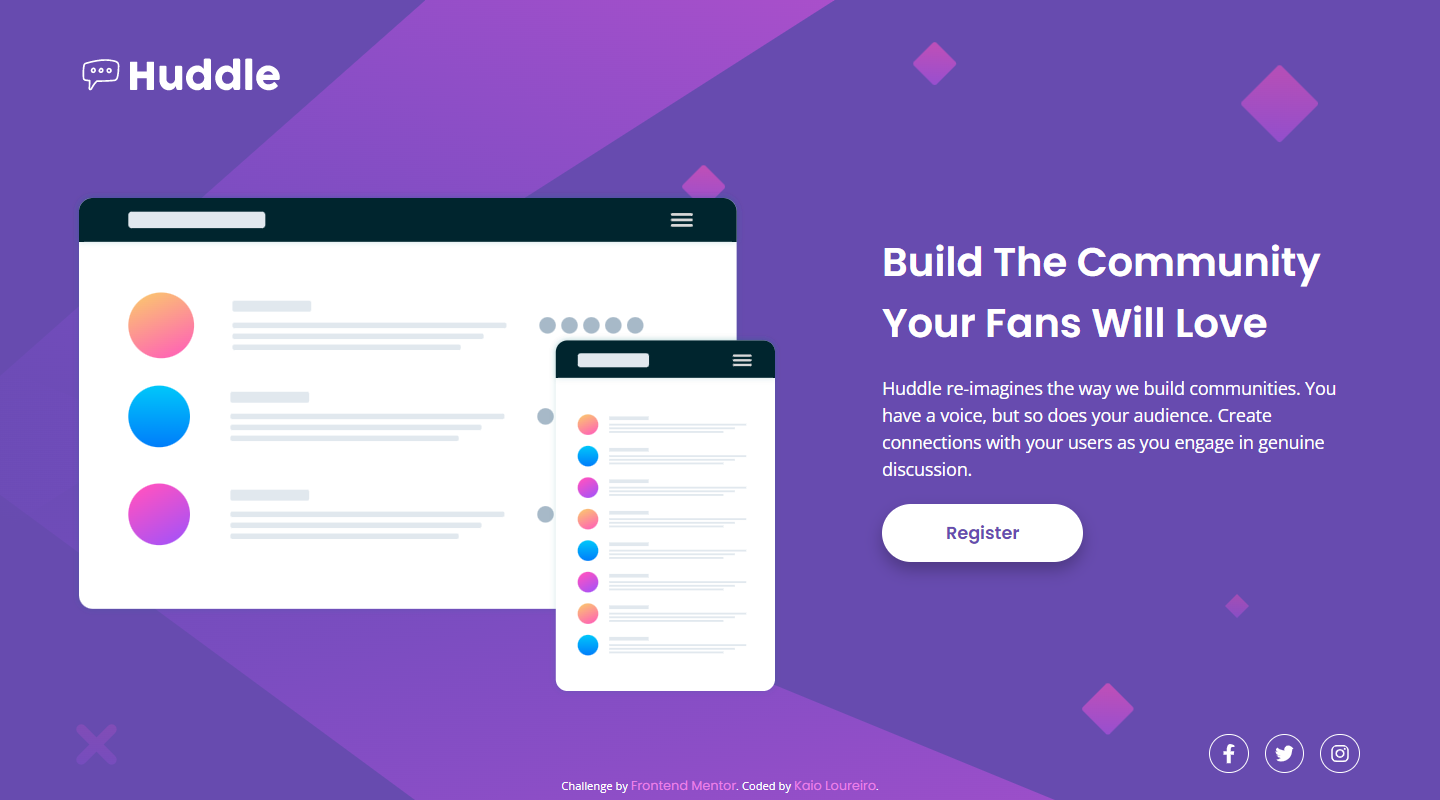
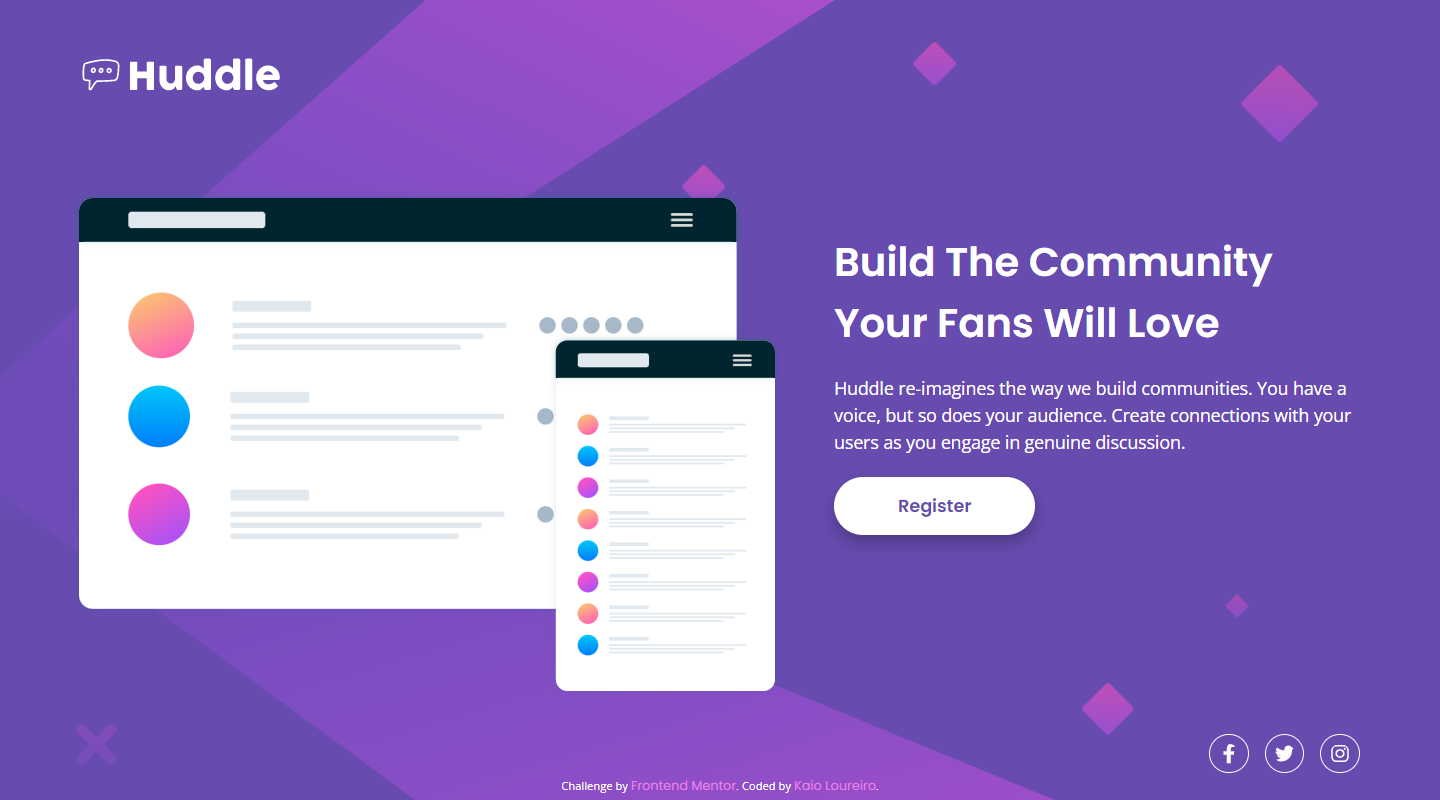
update

Changed region(s): [[0.5625, 0.4688, 0.9375, 0.7188], [0.5625, 0.375, 0.875, 0.4375], [0.5625, 0.3125, 0.9375, 0.3438]]

diff --git a/css/style.css b/css/style.css
@@ -30,7 +30,7 @@
     display: grid;
     align-content: start;
     gap: 1.3rem;
-    max-width: 534px;
+    width: 534px;
     margin-top: 2.6em;
 }
 
